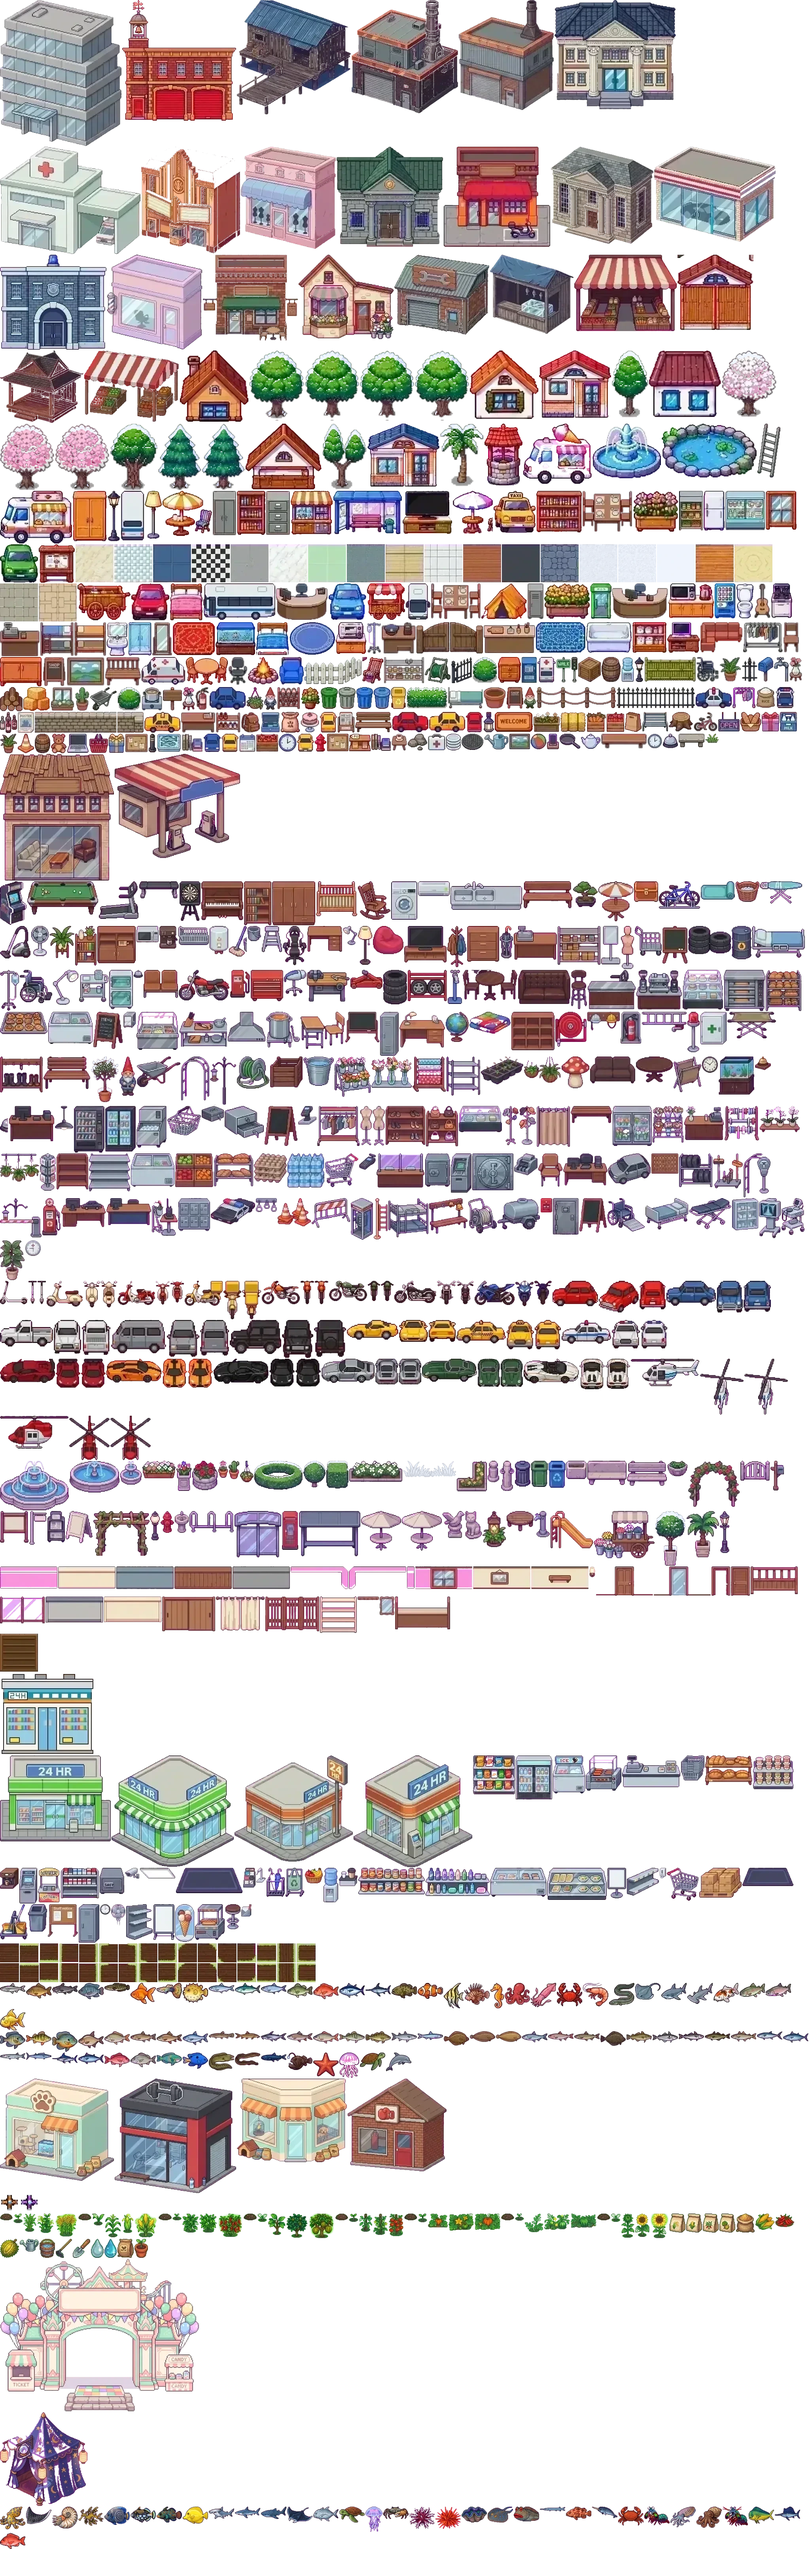
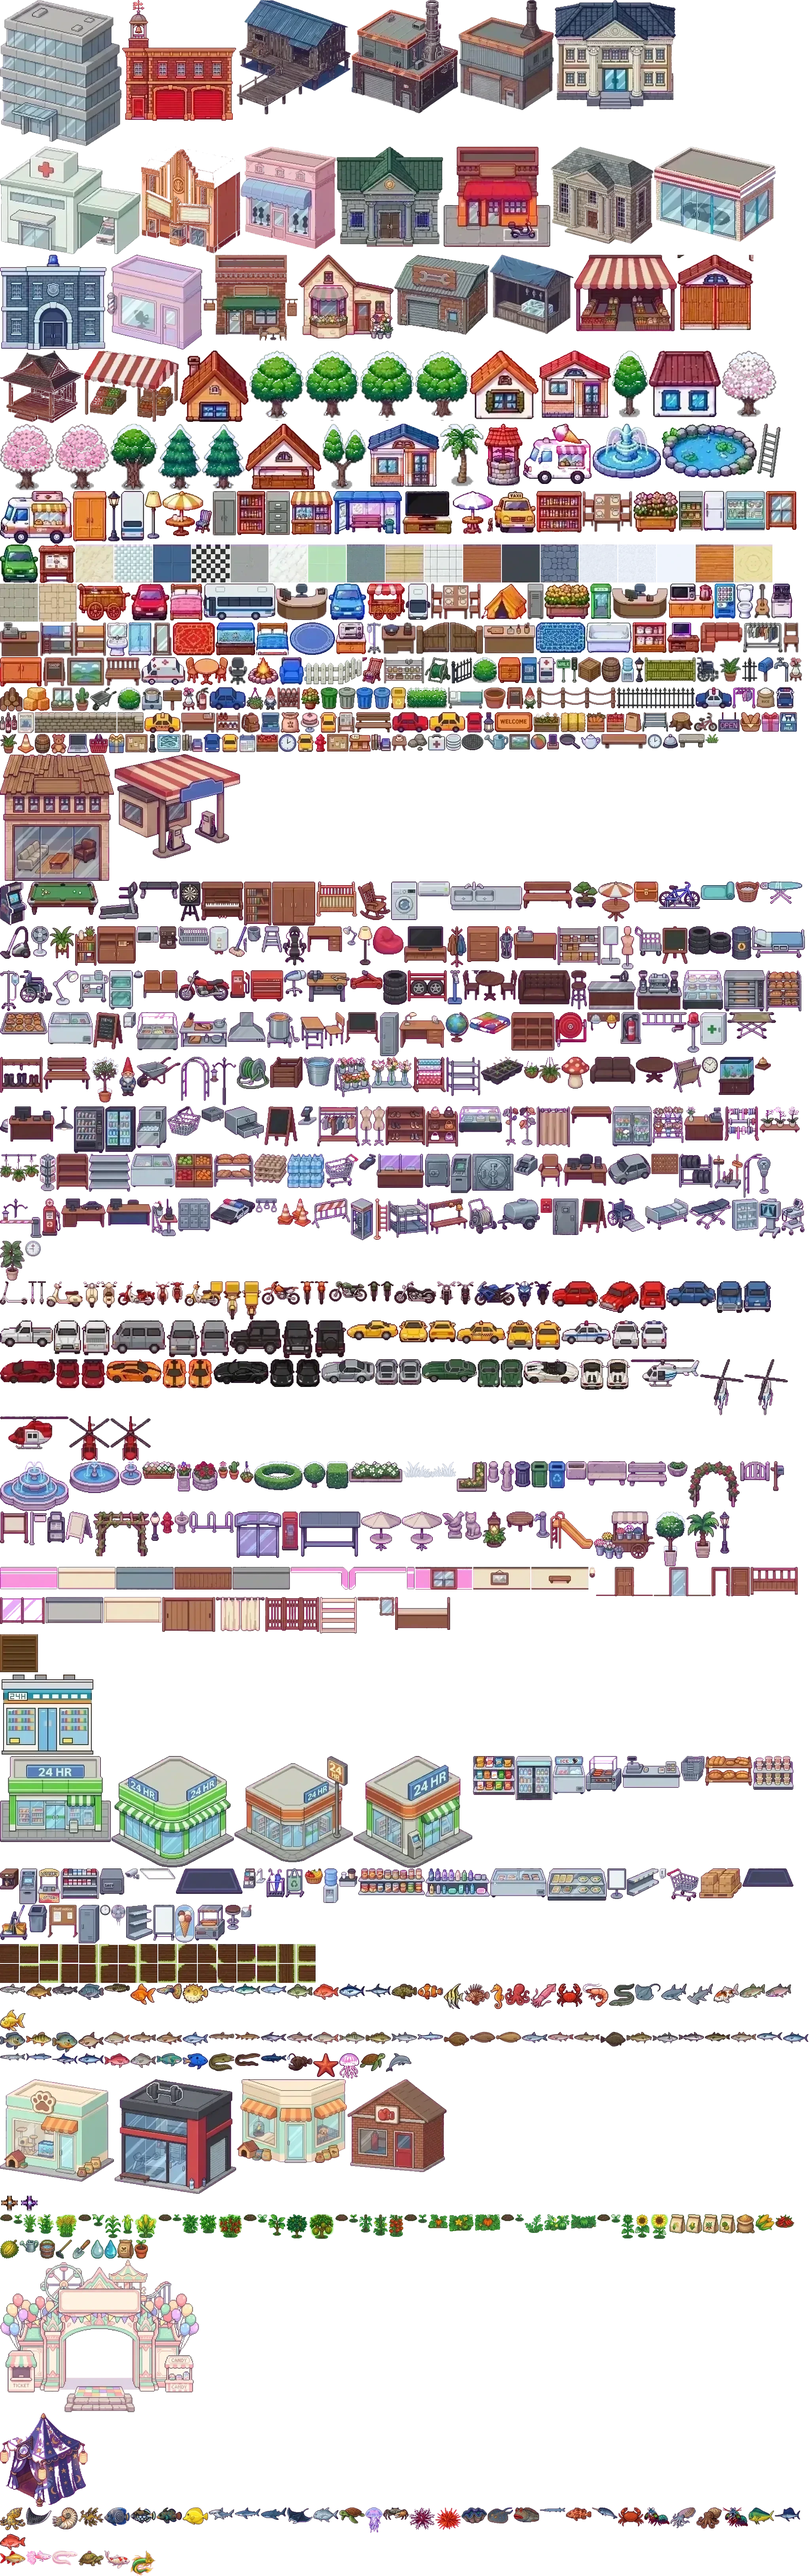
Temple fish sprites + abbot patrol that sends pond fishers out of the temple
Claude-Session: https://claude.ai/code/session_011vTRLcvJmqJKhBboYRSi88

diff --git a/public/game.js b/public/game.js
@@ -4941,6 +4941,10 @@ const needCareer = c => job(c) || !G.careers[c] ? '' : `<div class="sub" style="
 
 // what's new: a short summary of every update (newest first). Shown once after each update; also under ⚙ → 🆕 อัปเดต
 const NEWS = [
+  { v: '2026-11-23ai', d: '21 พ.ย.', items: [
+    '🎨 ปลาวัดทั้ง 6 ชนิดมีรูปของตัวเองแล้ว (ดูในสมุดปลาได้)',
+    '🧘 <b>หลวงพ่อเดินตรวจสระบัวเป็นระยะ!</b> ถ้าเห็นคำเตือนต้องเก็บเบ็ดภายใน 10 วิ ไม่งั้นโดนไล่ออกไปหน้าวัด',
+  ] },
   { v: '2026-11-23ah', d: '21 พ.ย.', items: [
     '🪷 <b>ปลาพิเศษเฉพาะวัด!</b> ตกปลาที่สระบัวหน้าโบสถ์ได้ 6 ชนิดใหม่ที่ไม่มีที่อื่น: ตะเพียนทองสระบัว · หางนกยูงกลีบบัว · ไหลเผือกปล่อยบุญ · เต่าปล่อยวัดอายุร้อยปี · คาร์ปลายยันต์',
     '🐉 ตำนานใหม่: <b>ปลาพญานาคราช</b> ซ่อนอยู่ในสระบัววัด หายากสุดๆ ลองไปเสี่ยงดู!',
@@ -6595,7 +6599,7 @@ const STN = id => id === 'water' ? waterNear : G.stations.find(s => s.id === id)
 let atlas = null, atlasImg = null;
 let PET_AT = null, petImg = null;
 fetch('assets/pets.json?v=2').then(r => r.json()).then(j => { PET_AT = j; setTimeout(() => { const im = new Image(); im.onload = () => { petImg = im; }; im.src = 'assets/pets.webp?v=3'; }, 3500); }).catch(() => { });
-fetch('assets/atlas.json?v=v11').then(r => r.json()).then(j => { atlas = j; const im = new Image(); im.onload = () => { atlasImg = im; }; im.src = (SNOW ? 'assets/atlas_snow.webp' : 'assets/atlas.webp') + '?v=v11'; });   // ❄ the snowy atlas is baked ahead (tools/build_snow_atlas.js): building it on the phone ran iPhones out of memory
+fetch('assets/atlas.json?v=v12').then(r => r.json()).then(j => { atlas = j; const im = new Image(); im.onload = () => { atlasImg = im; }; im.src = (SNOW ? 'assets/atlas_snow.webp' : 'assets/atlas.webp') + '?v=v12'; });   // ❄ the snowy atlas is baked ahead (tools/build_snow_atlas.js): building it on the phone ran iPhones out of memory
 // ❄ winter: the lawns are snow and trees / bushes carry snow on top. Done once on a copy of the atlas when it loads,
 // so every place that draws grass or a tree (ground chunks, the map edge, shop thumbnails) gets the snowy look for free.
 // Not run in the game any more: tools/build_snow_atlas.js runs it once and saves assets/atlas_snow.webp

diff --git a/server/data.js b/server/data.js
@@ -1029,12 +1029,12 @@ const ITEMS = {
   goldenfish:{ name: 'ปลาทองคำ', icon: '✨', kind: 'fish', base: 5000, rar: 5 },
   mayorkoi:  { name: 'ปลาทองยักษ์นายกฯ', icon: '🐡', kind: 'fish', base: 15000, rar: 5, legend: 1 },
   // temple-only fish: they live in the lotus pond of the temple and nowhere else
-  tp_tapian: { name: 'ปลาตะเพียนทองสระบัว', icon: '🐟', kind: 'fish', base: 110, rar: 2, temple: 1, spr0: 'carp' },
-  tp_lotus:  { name: 'ปลาหางนกยูงกลีบบัว', icon: '🪷', kind: 'fish', base: 160, rar: 2, temple: 1, spr0: 'guppy' },
-  tp_merit:  { name: 'ปลาไหลเผือกปล่อยบุญ', icon: '🤍', kind: 'fish', base: 420, rar: 3, temple: 1, spr0: 'eel' },
-  tp_turtle: { name: 'เต่าปล่อยวัดอายุร้อยปี', icon: '🐢', kind: 'fish', base: 520, rar: 3, temple: 1, spr0: 'turtle' },
-  tp_koi:    { name: 'ปลาคาร์ปลายยันต์', icon: '🎏', kind: 'fish', base: 1300, rar: 4, temple: 1, spr0: 'koi' },
-  tp_naga:   { name: 'ปลาพญานาคราช', icon: '🐉', kind: 'fish', base: 7000, rar: 5, temple: 1, spr0: 'seadragon' },
+  tp_tapian: { name: 'ปลาตะเพียนทองสระบัว', icon: '🐟', kind: 'fish', base: 110, rar: 2, temple: 1 },
+  tp_lotus:  { name: 'ปลาหางนกยูงกลีบบัว', icon: '🪷', kind: 'fish', base: 160, rar: 2, temple: 1 },
+  tp_merit:  { name: 'ปลาไหลเผือกปล่อยบุญ', icon: '🤍', kind: 'fish', base: 420, rar: 3, temple: 1 },
+  tp_turtle: { name: 'เต่าปล่อยวัดอายุร้อยปี', icon: '🐢', kind: 'fish', base: 520, rar: 3, temple: 1 },
+  tp_koi:    { name: 'ปลาคาร์ปลายยันต์', icon: '🎏', kind: 'fish', base: 1300, rar: 4, temple: 1 },
+  tp_naga:   { name: 'ปลาพญานาคราช', icon: '🐉', kind: 'fish', base: 7000, rar: 5, temple: 1 },
   // second sheet: freshwater (lake/river) and sea fish, plus a few sea creatures
   bluegill:  { name: 'ปลาบลูกิล', icon: '🐟', kind: 'fish', base: 35, rar: 1, w: 'f' },
   perch:     { name: 'ปลาเพิร์ช', icon: '🐟', kind: 'fish', base: 45, rar: 1, w: 'f' },

diff --git a/server/index.js b/server/index.js
@@ -1928,6 +1928,21 @@ function waterSpot(a) {
   const pool = D.waterPool(a.x, a.y); if (!pool) return null;
   return { id: 'water', type: 'pier', pool, label: 'ตกปลา', icon: '🎣', x: a.x, y: a.y, r: 3, area: areaId(a) };
 }
+// the abbot's rounds: every 2-5 minutes he walks to the lotus pond; whoever is still fishing there 10 s after his warning is sent out to the temple gate
+let monkT = now() + 120e3;
+function monkTick() {
+  const t = now(); if (t < monkT) return;
+  monkT = t + 120e3 + Math.random() * 180e3;
+  if (![...online.values()].some(o => o.cast?.pool === 'temple')) return;
+  toArea('temple', { t: 'toast', msg: '🙏 หลวงพ่อเดินมาตรวจสระบัว! "ใครแอบตกปลาในวัด อาตมาจะไล่ออกนะโยม" · รีบเก็บเบ็ดภายใน 10 วิ!', icon: '🧘', ok: false });
+  setTimeout(() => {
+    const g = D.GATES.town_from_temple;
+    for (const o of online.values()) if (o.cast?.pool === 'temple' && areaId(o) === 'temple') {
+      teleport(o, g.x, g.y); toast(o, 'โดนหลวงพ่อไล่ออกไปหน้าวัด! "ปลาในวัดเขาปล่อยทำบุญนะโยม"', '🧘', false);
+    }
+  }, 10e3);
+}
+setInterval(() => { try { monkTick(); } catch (e) { console.error('monkTick', e); } }, 5e3).unref?.();
 // ------------------------------------------------------------------ easter eggs
 const dayKey = () => new Date(now() + 7 * 3600e3).toISOString().slice(0, 10);   // Thai calendar day
 const eggOf = a => { a.egg = a.egg || {}; a.egg.s = a.egg.s || []; return a.egg; };

diff --git a/tools/add_fish_temple.py b/tools/add_fish_temple.py
@@ -1,0 +1,59 @@
+"""Cut the temple fish sheet (lotus-pond fish, 3 per row) (tools/sheets/pixel_fish_temple.jpg, 6 uneven rows on magenta) into the atlas as fish_<id>.
+The cells are not a regular grid, so every creature is found as its own blob, grouped into rows and read left to right.
+
+    python3 tools/add_fish_temple.py
+"""
+import json, os
+import numpy as np
+from PIL import Image
+from scipy import ndimage
+
+ROOT = os.path.join(os.path.dirname(__file__), '..')
+IMG = os.path.join(ROOT, 'public', 'assets', 'atlas.webp')
+JS = os.path.join(ROOT, 'public', 'assets', 'atlas.json')
+SHEET = os.path.join(ROOT, 'tools', 'sheets', 'pixel_fish_temple.jpg')
+ROWS = [  # item ids, row by row, left to right (server/data.js)
+  ['tp_tapian', 'tp_lotus', 'tp_merit'],
+  ['tp_turtle', 'tp_koi', 'tp_naga']]
+ROW_Y = [510, 1380]     # row centres on the sheet (px)
+OUT_W = 64
+
+def main():
+    data = json.load(open(JS)); atlas = Image.open(IMG).convert('RGBA'); S = data['sprites']
+    a = np.asarray(Image.open(SHEET).convert('RGB')).astype(int); r, g, b = a[..., 0], a[..., 1], a[..., 2]
+    bg = (g < np.minimum(r, b) * 0.6) & (np.abs(r - b) < 90) & (np.minimum(r, b) > 110)
+    fg = ndimage.binary_opening(~bg, iterations=2)
+    lab, n = ndimage.label(ndimage.binary_dilation(fg, iterations=3))
+    objs = []
+    for i, sl in enumerate(ndimage.find_objects(lab)):
+        if (lab[sl] == i + 1).sum() < 1500: continue
+        cy = (sl[0].start + sl[0].stop) / 2
+        row = int(np.argmin([abs(cy - y) for y in ROW_Y]))
+        objs.append((row, sl[1].start, i + 1, sl))
+    rgba = np.dstack([a, np.where(bg, 0, 255)]).astype(np.uint8)
+    pieces = []
+    for row, names in enumerate(ROWS):
+        got = sorted(o for o in objs if o[0] == row)
+        assert len(got) == len(names), (row, len(got), len(names))
+        for (_, _, lid, sl), nm in zip(got, names):
+            name = 'fish_' + nm
+            if name in S: continue
+            keep = (lab[sl] == lid) & fg[sl]
+            piece = rgba[sl].copy(); piece[..., 3] = np.where(keep, 255, 0)
+            im = Image.fromarray(piece); im = im.crop(im.getbbox())
+            k = OUT_W / max(im.width, im.height)
+            pieces.append((name, im.resize((max(1, round(im.width * k)), max(1, round(im.height * k))), Image.LANCZOS)))
+    x, y, rowh = 0, data['size'][1] + 2, 0
+    placed = []
+    for name, im in pieces:
+        if x + im.width > atlas.width: x, y, rowh = 0, y + rowh + 2, 0
+        placed.append((name, x, y, im)); x += im.width + 2; rowh = max(rowh, im.height)
+    out = Image.new('RGBA', (atlas.width, y + rowh)); out.paste(atlas, (0, 0))
+    for name, px, py, im in placed:
+        out.paste(im, (px, py)); S[name] = [px, py, im.width, im.height]
+    data['size'] = [atlas.width, out.height]
+    out.save(IMG, 'WEBP', quality=92, method=6); json.dump(data, open(JS, 'w'), separators=(',', ':'))
+    print('added', len(placed), 'atlas', out.size)
+
+if __name__ == '__main__':
+    main()
